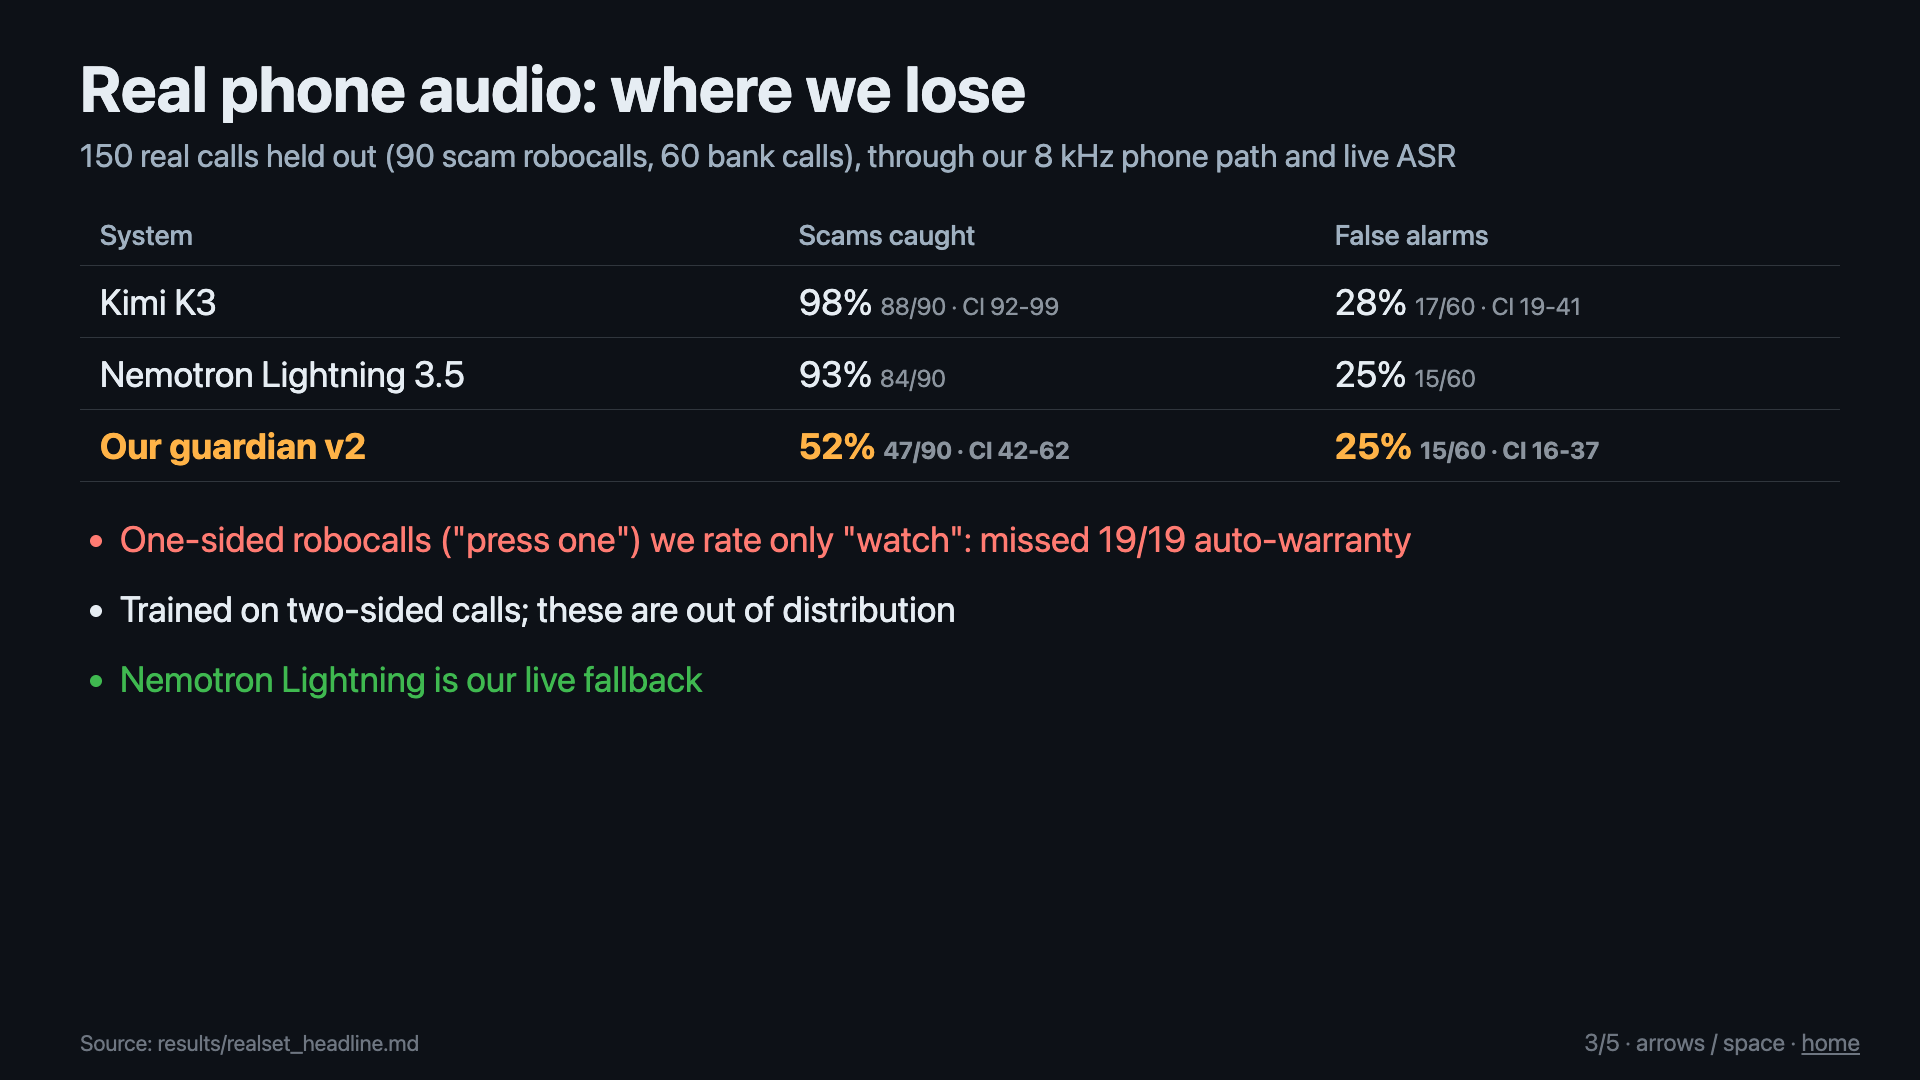
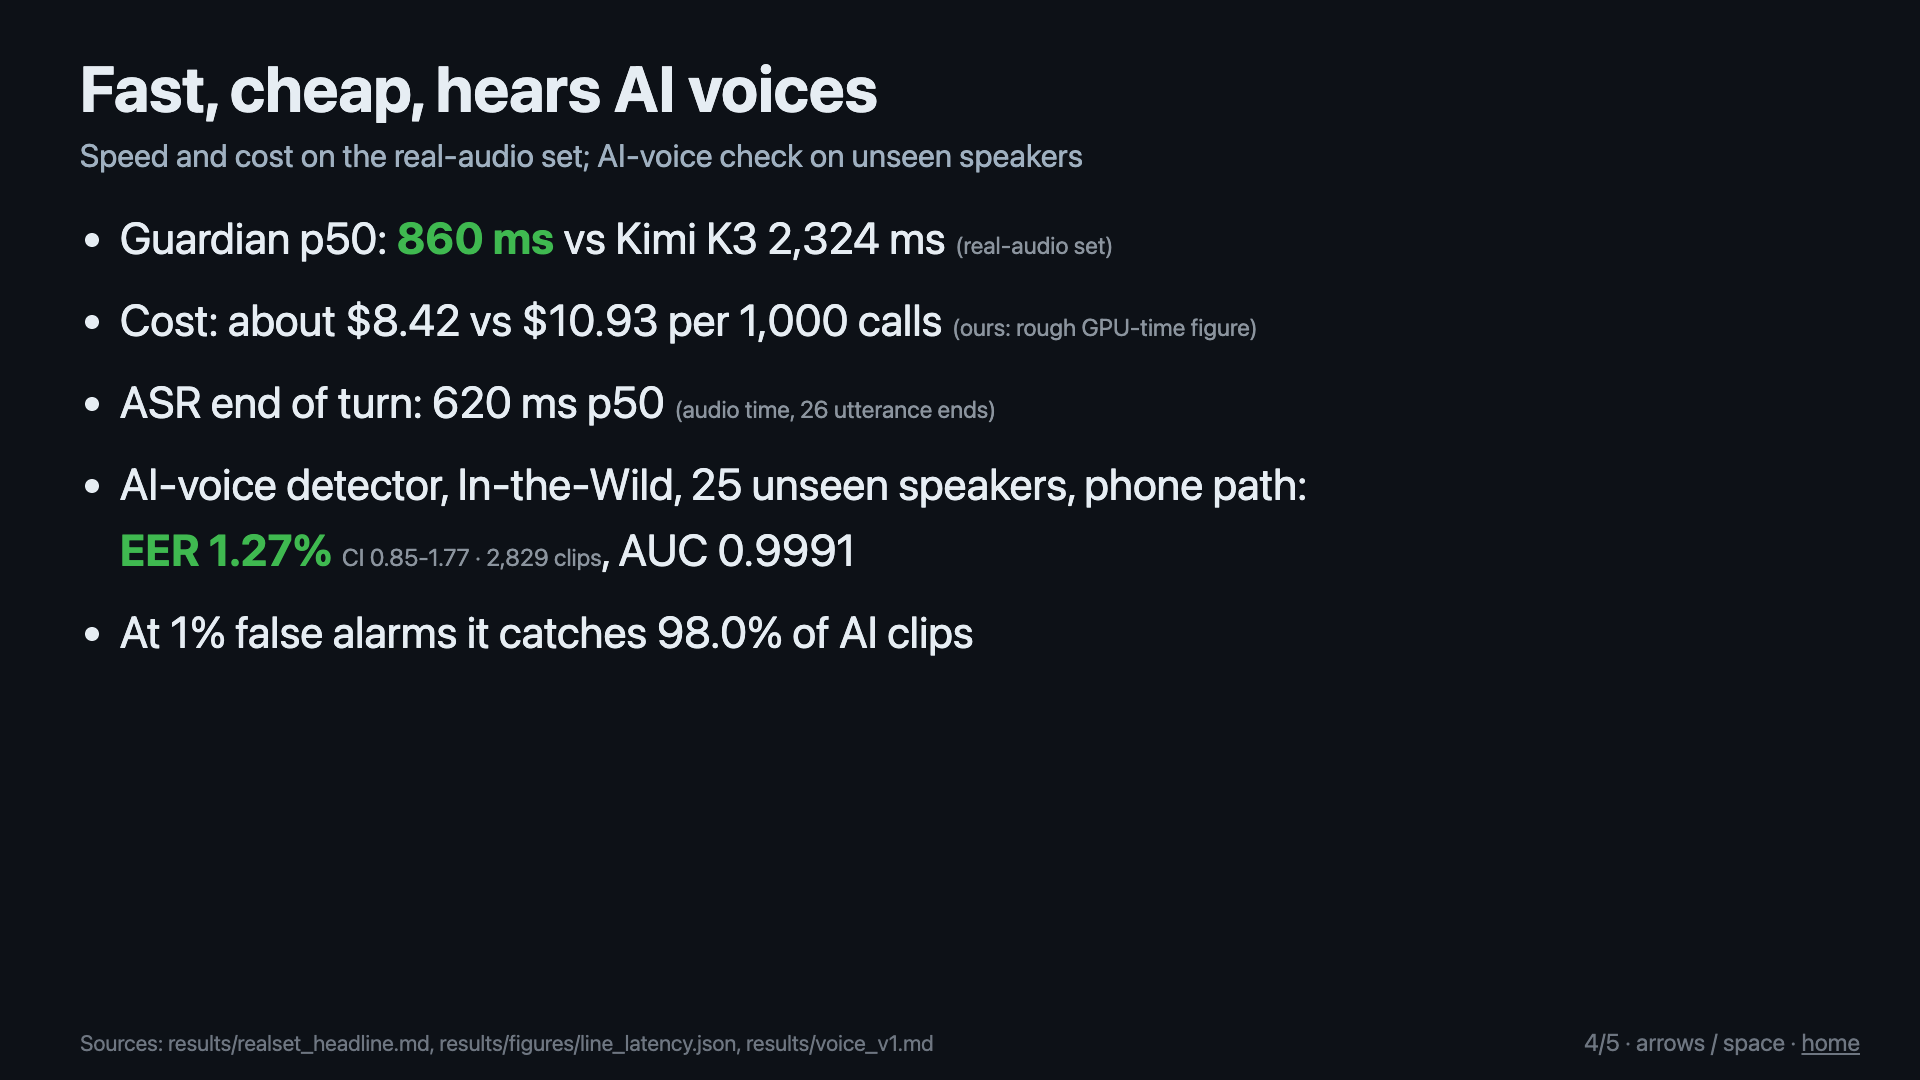
Submission: drop unbenchmarked Telnyx deepfake claims; AI-voice evidence is our own detector only; refresh screenshots

diff --git a/demo/screens/how.html b/demo/screens/how.html
@@ -34,7 +34,7 @@ a{position:fixed;right:40px;top:40px;color:#9fb0c0;font-size:28px}</style></head
 <text x="1590" y="610" class="s" text-anchor="middle">Training API: LoRA on Qwen3.6-35B-A3B</text>
 <text x="1590" y="645" class="s" text-anchor="middle">serving: the live guardian</text>
 <text x="1590" y="680" class="s" text-anchor="middle">fallback: NVIDIA Nemotron Lightning</text>
-<text x="520" y="385" class="b" text-anchor="middle">AI-voice check</text><text x="520" y="420" class="s" text-anchor="middle">wav2vec2 head + Telnyx deepfake</text><text x="520" y="448" class="s" text-anchor="middle">+ reply timing</text>
+<text x="520" y="385" class="b" text-anchor="middle">AI-voice check</text><text x="520" y="420" class="s" text-anchor="middle">wav2vec2 head + reply timing</text><text x="520" y="448" class="s" text-anchor="middle">+ reply timing</text>
 <text x="1020" y="790" class="b" text-anchor="middle">Alert</text>
 <text x="560" y="895" class="b" text-anchor="middle">Coach whisper</text><text x="560" y="928" class="s" text-anchor="middle">only Grandma hears it</text>
 <text x="1020" y="895" class="b" text-anchor="middle">Caretaker call</text><text x="1020" y="928" class="s" text-anchor="middle">listen · 0 talk · 9 end</text>

diff --git a/README.md b/README.md
@@ -8,7 +8,7 @@ grooming, threats) Emberz:
 - **whispers a coach line** only the protected person hears ("Don't share any codes. Hang up and call the bank directly."),
 - **phones the caretaker**, who can listen in (press 1), talk (press 0) or **end the call** (press 9),
 - follows **rules the caretaker writes in plain words** ("Never share codes", "Alert me about any money talk, even with family"),
-- flags **AI voices** (our wav2vec2 detector + Telnyx deepfake detection + reply timing).
+- flags **AI voices** with our own detector (wav2vec2 features + a trained head, evaluated below) and reply timing.
 
 ## Why now: AI made the scam call cheap, convincing and endless
 
@@ -21,8 +21,8 @@ grooming, threats) Emberz:
   count as "artificial" under the TCPA and named voice clones posing as family as a harm [1][4].
 - **We built the attacker ourselves.** Our test caller is off-the-shelf: an LLM scam script plus a stock neural voice on a
   cloud phone API, an estimated **$0.34 per two-minute call** (`callers/signalwire`). On real phone calls it held a fluent,
-  pressuring back-and-forth and asked for the verification code. Telnyx's built-in deepfake check scored its voice on only 1 of
-  5 live calls (silence timeout on the rest); our own detector flagged it on every live call we checked (4 calls, 0.94-0.9997).
+  pressuring back-and-forth and asked for the verification code.
+  Our own detector flagged its voice on every live call we checked (4 calls, scores 0.94-0.9997).
 - **Existing filters stop at the ring.** Carrier filters and caller-ID apps judge the number before you answer. A manipulative
   call from an unknown or spoofed number gets through, and the damage happens during the conversation, which is exactly where
   Emberz listens.
